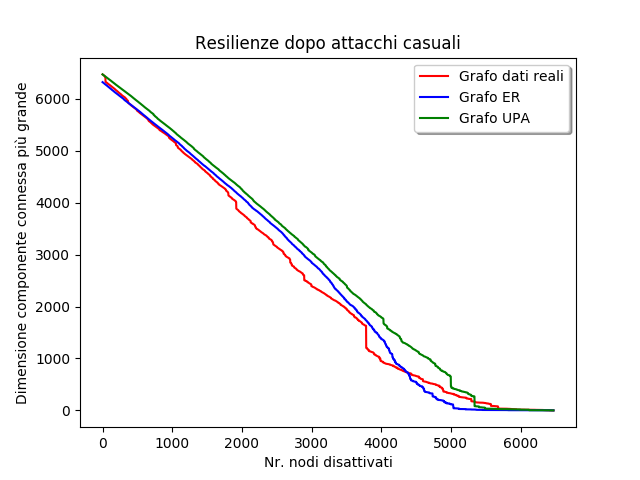
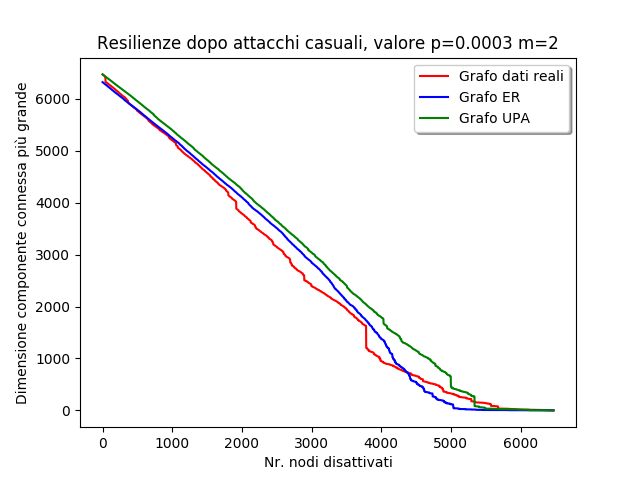
messa a posto legenda e aggiunti p e m

Changed region(s): [[0.1562, 0.0625, 0.875, 0.125]]

diff --git a/Lab1/Graph.py b/Lab1/Graph.py
@@ -180,7 +180,7 @@ def printPlotRandom(ArrResilD, ArrResilER, ArrResilUPA, numNodes, fileName):
     fig, ax = plt.subplots()
     ax.set(xlabel="Nr. nodi disattivati",
            ylabel="Dimensione componente connessa più grande",
-           title="Resilienze dopo attacchi casuali")
+           title="Resilienze dopo attacchi casuali, valore p=0.0003 m=2")
 
     ax.plot(t, ArrResilD, "r", label="Grafo dati reali")
     ax.plot(t, ArrResilER, "b", label="Grafo ER")
@@ -198,13 +198,13 @@ def printPlotRandom_masked(ArrResilD, ArrResilER, ArrResilUPA, numNodes, fileNam
     fig, ax = plt.subplots()
     ax.set(xlabel="Nr. nodi disattivati",
            ylabel="Dimensione componente connessa più grande",
-           title="Resilienze dopo attacchi casuali")
+           title="Resilienze dopo attacchi intelligenti, valore p=0.0003 m=2")
 
     ax.plot(t, ArrResilD, "#ff6666", label="Grafo dati reali", linewidth=0.75)
     ax.plot(t, ArrResilER, "#8080ff", label="Grafo ER", linewidth=0.75)
     ax.plot(t, ArrResilUPA, "#66ff66", label="Grafo UPA", linewidth=0.75)
 
-    ax.legend(loc="upper right", shadow=True, fontsize="medium")
+
 
 
     y_threshold = numNodes*0.75
@@ -233,8 +233,10 @@ def printPlotRandom_masked(ArrResilD, ArrResilER, ArrResilUPA, numNodes, fileNam
     ax.plot(np.arange(cU), yU, "#003300", linewidth=0.75)
     ax.plot(np.arange(cD), yD, "#660000", linewidth=0.75)
 
-    ax.axhline(y=y_threshold, linewidth=0.5, color="k")
-    ax.axvline(x=x_threshold, linewidth=0.5, color="k")
+    ax.axhline(y=y_threshold, linewidth=0.5, color="#433C3C", label="75% dei nodi attivi")
+    ax.axvline(x=x_threshold, linewidth=0.5, color="#797676", label="20% dei nodi disattivati")
+
+    ax.legend(loc="upper right", shadow=True, fontsize="medium")
 
     fig.savefig(fileName)
     plt.show()
